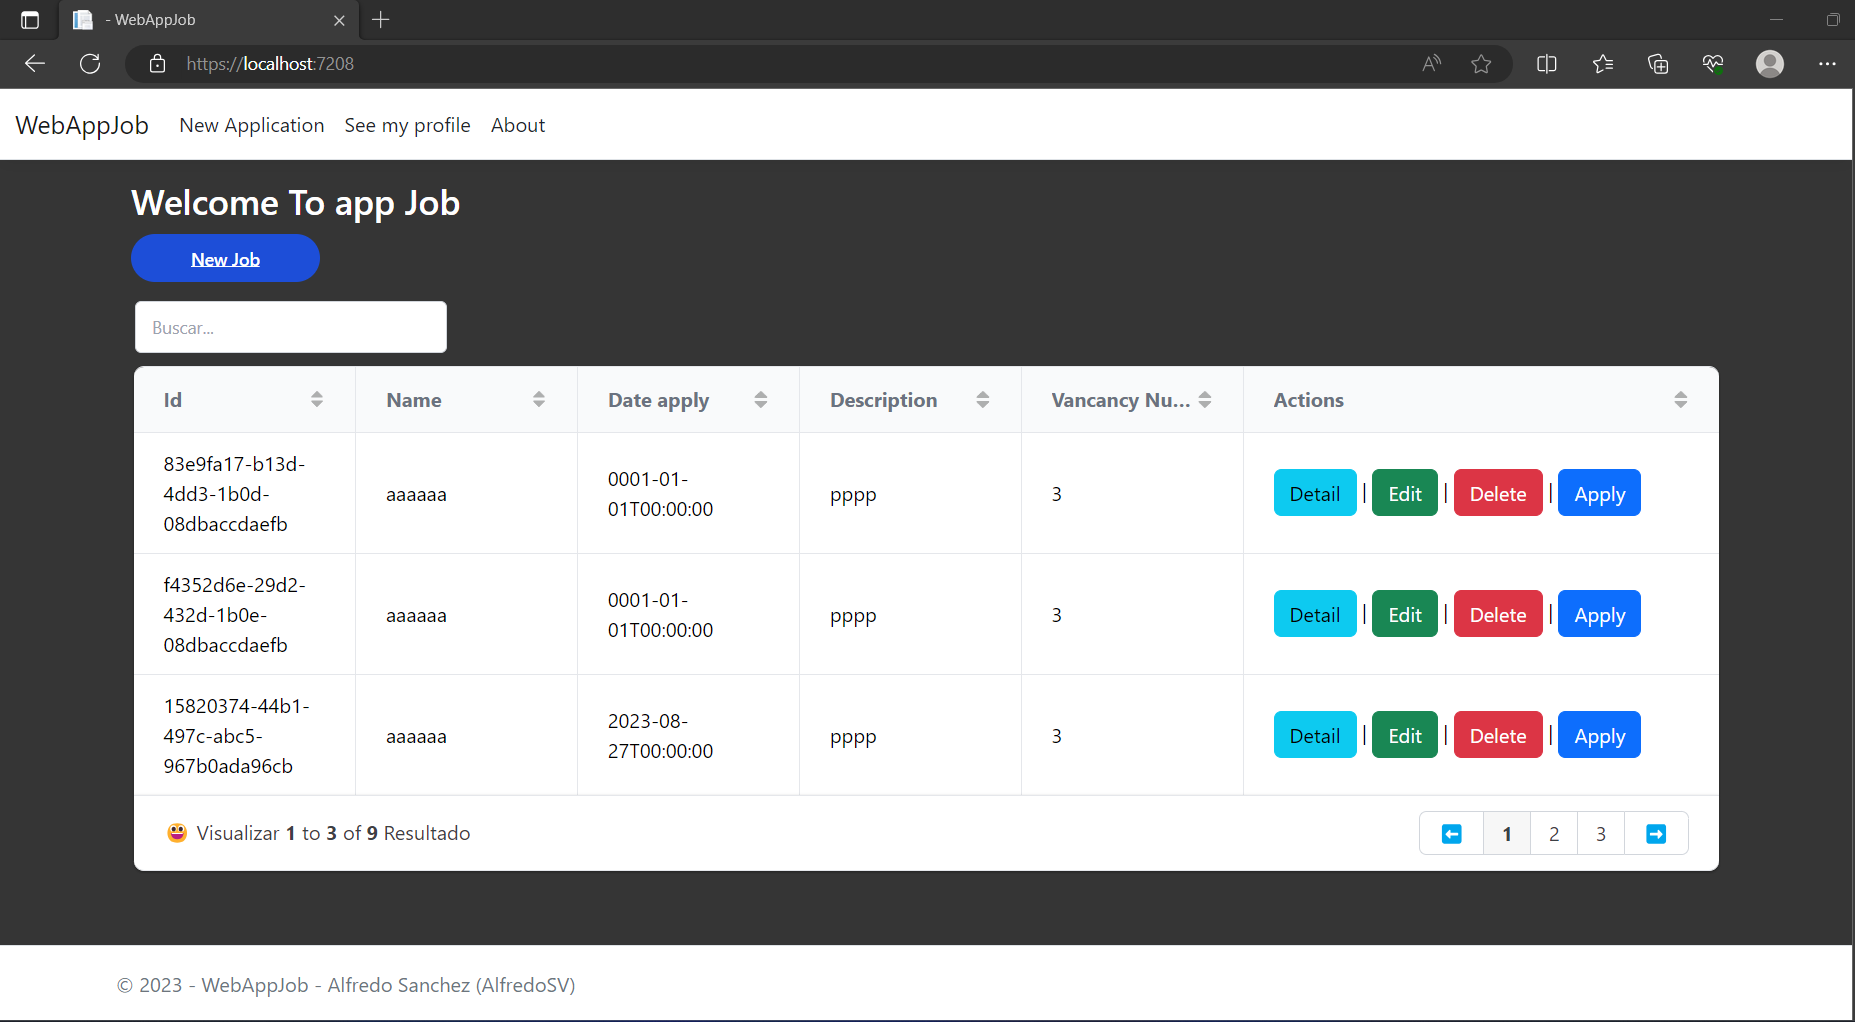
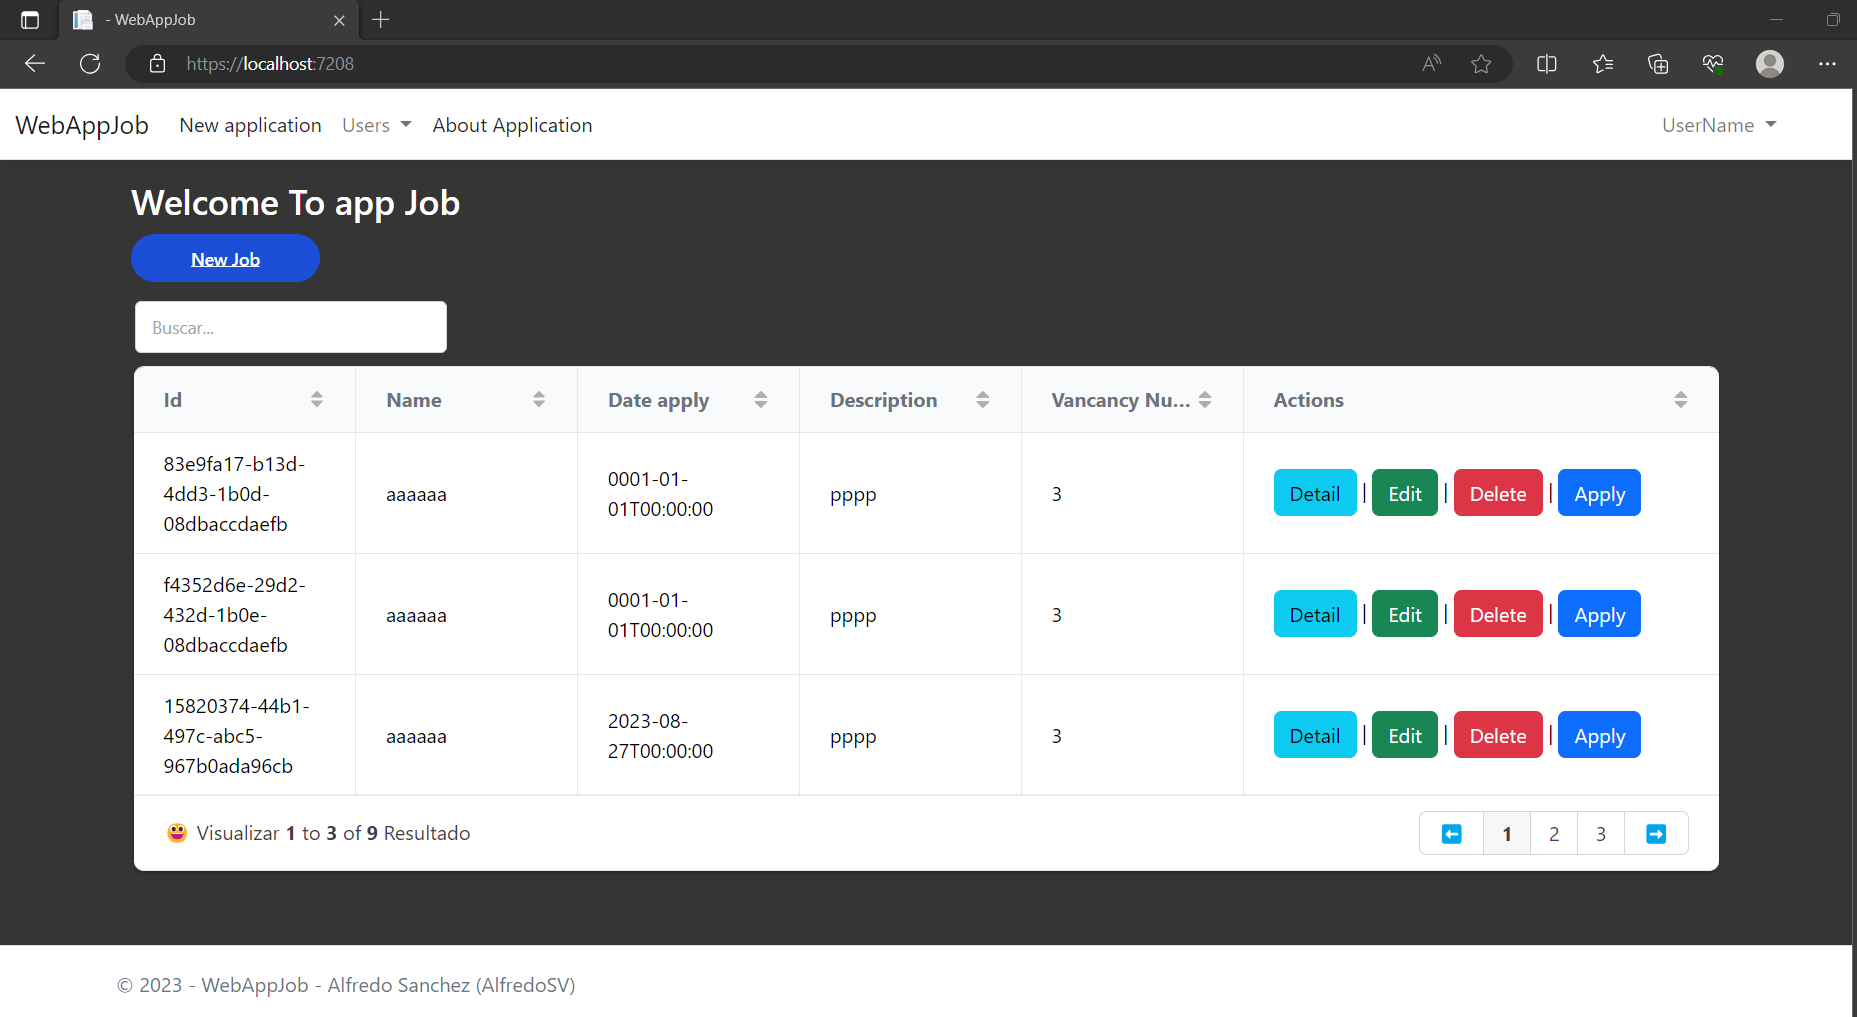
Was added "My information" form and added new captures.

diff --git a/WebAppJob/Models/UserViewModel.cs b/WebAppJob/Models/UserViewModel.cs
@@ -9,19 +9,20 @@ namespace WebAppJob.Models
 		public Guid Id { get; private set; }
 		public string UserName { get; private set; }
 		public DateTime DateCreated { get; private set; }
-		public string NameRol { get; set; }
+		public Guid RoleId { get; set; }
 		public string Name { get; private set; }
 		public string LastName { get; private set; }
 		public int Age { get; private set; }
 		public string Address { get; set; }
 		public string Email { get; set; }
 
-		private UserViewModel(Guid id, string userName, DateTime dateCreated, string nameRol, string name, string lastName, int age, string address, string email)
+		private UserViewModel(Guid id, string userName, DateTime dateCreated,
+			Guid roleId, string name, string lastName, int age, string address, string email)
 		{
 			Id = id;
 			UserName = userName;
 			DateCreated = dateCreated;
-			NameRol = nameRol;
+			RoleId = roleId;
 			Name = name;
 			LastName = lastName;
 			Age = age;
@@ -30,9 +31,10 @@ namespace WebAppJob.Models
 		}
 
 
-		public static UserViewModel Create(Guid id, string userName, DateTime dateCreated, string nameRol, string name, string lastName, int age, string address, string email)
+		public static UserViewModel Create(Guid id, string userName, DateTime dateCreated, Guid roleId, string name, string lastName, int age, string address, string email)
 		{
-			return new UserViewModel( id,  userName,  dateCreated,  nameRol,  name,  lastName,  age,  address,  email);		
+			return new UserViewModel( id,  userName,  dateCreated,  roleId,
+				name,  lastName,  age,  address,  email);		
 		}
 	}
 }

diff --git a/WebAppJob/Controllers/LoginController.cs b/WebAppJob/Controllers/LoginController.cs
@@ -28,7 +28,6 @@ namespace WebAppJob.Controllers
 
         public IActionResult Index()
         {
-            //string culture = CultureInfo.CurrentCulture.TextInfo.CultureName ;
             return View();
         }
 
@@ -46,7 +45,6 @@ namespace WebAppJob.Controllers
             catch (Exception e)
             {
                 ModelState.AddModelError("UserName", "An error occurred while searching for the user");
-
             }
 
             return View("Index");
@@ -84,8 +82,17 @@ namespace WebAppJob.Controllers
                 ModelState.AddModelError("Password", "An error occurred while searching for the information of user");
             }
 
-            return View(user);
+            return RedirectToAction("LoginValidation", new { username = user.UserName});
           
         }
-    }
+
+        [HttpGet]
+        public IActionResult Singout()
+        {
+            HttpContext.Session.Remove("User");
+
+            return RedirectToAction("Index");
+        }
+
+	}
 }

diff --git a/WebAppJob/Controllers/HomeController.cs b/WebAppJob/Controllers/HomeController.cs
@@ -33,6 +33,7 @@ namespace WebAppJob.Controllers
             return View();
         }
 
+        [HttpGet]
         public IActionResult SeeMyInformation()
         {
             //Guid id = Guid.Parse(HttpContext.Session.GetString("User")??"");}
@@ -41,7 +42,7 @@ namespace WebAppJob.Controllers
             UserFkw userFkw = _serviceUser.GetUserById(id);
 
             UserViewModel userViewModel = UserViewModel.Create(userFkw.Id,userFkw.UserName,
-                userFkw.DateCreated,"Example rol",userFkw.UserInformation.Name,
+                userFkw.DateCreated,Guid.NewGuid(),userFkw.UserInformation.Name,
                 userFkw.UserInformation.LastName,userFkw.UserInformation.Age,
                 userFkw.UserInformation.Address,userFkw.UserInformation.Email);
 

diff --git a/README.md b/README.md
@@ -13,4 +13,6 @@ Frameworks and libraries:
 ![cap1](https://github.com/AlfredoSV/WebAppJob/blob/master/Captures/cap1.png)
 ![cap2](https://github.com/AlfredoSV/WebAppJob/blob/master/Captures/cap2.png)
 ![cap3](https://github.com/AlfredoSV/WebAppJob/blob/master/Captures/cap3.png)
-
+![cap4](https://github.com/AlfredoSV/WebAppJob/blob/master/Captures/cap4.png)
+![cap5](https://github.com/AlfredoSV/WebAppJob/blob/master/Captures/cap5.png)
+![cap6](https://github.com/AlfredoSV/WebAppJob/blob/master/Captures/cap6.png)
